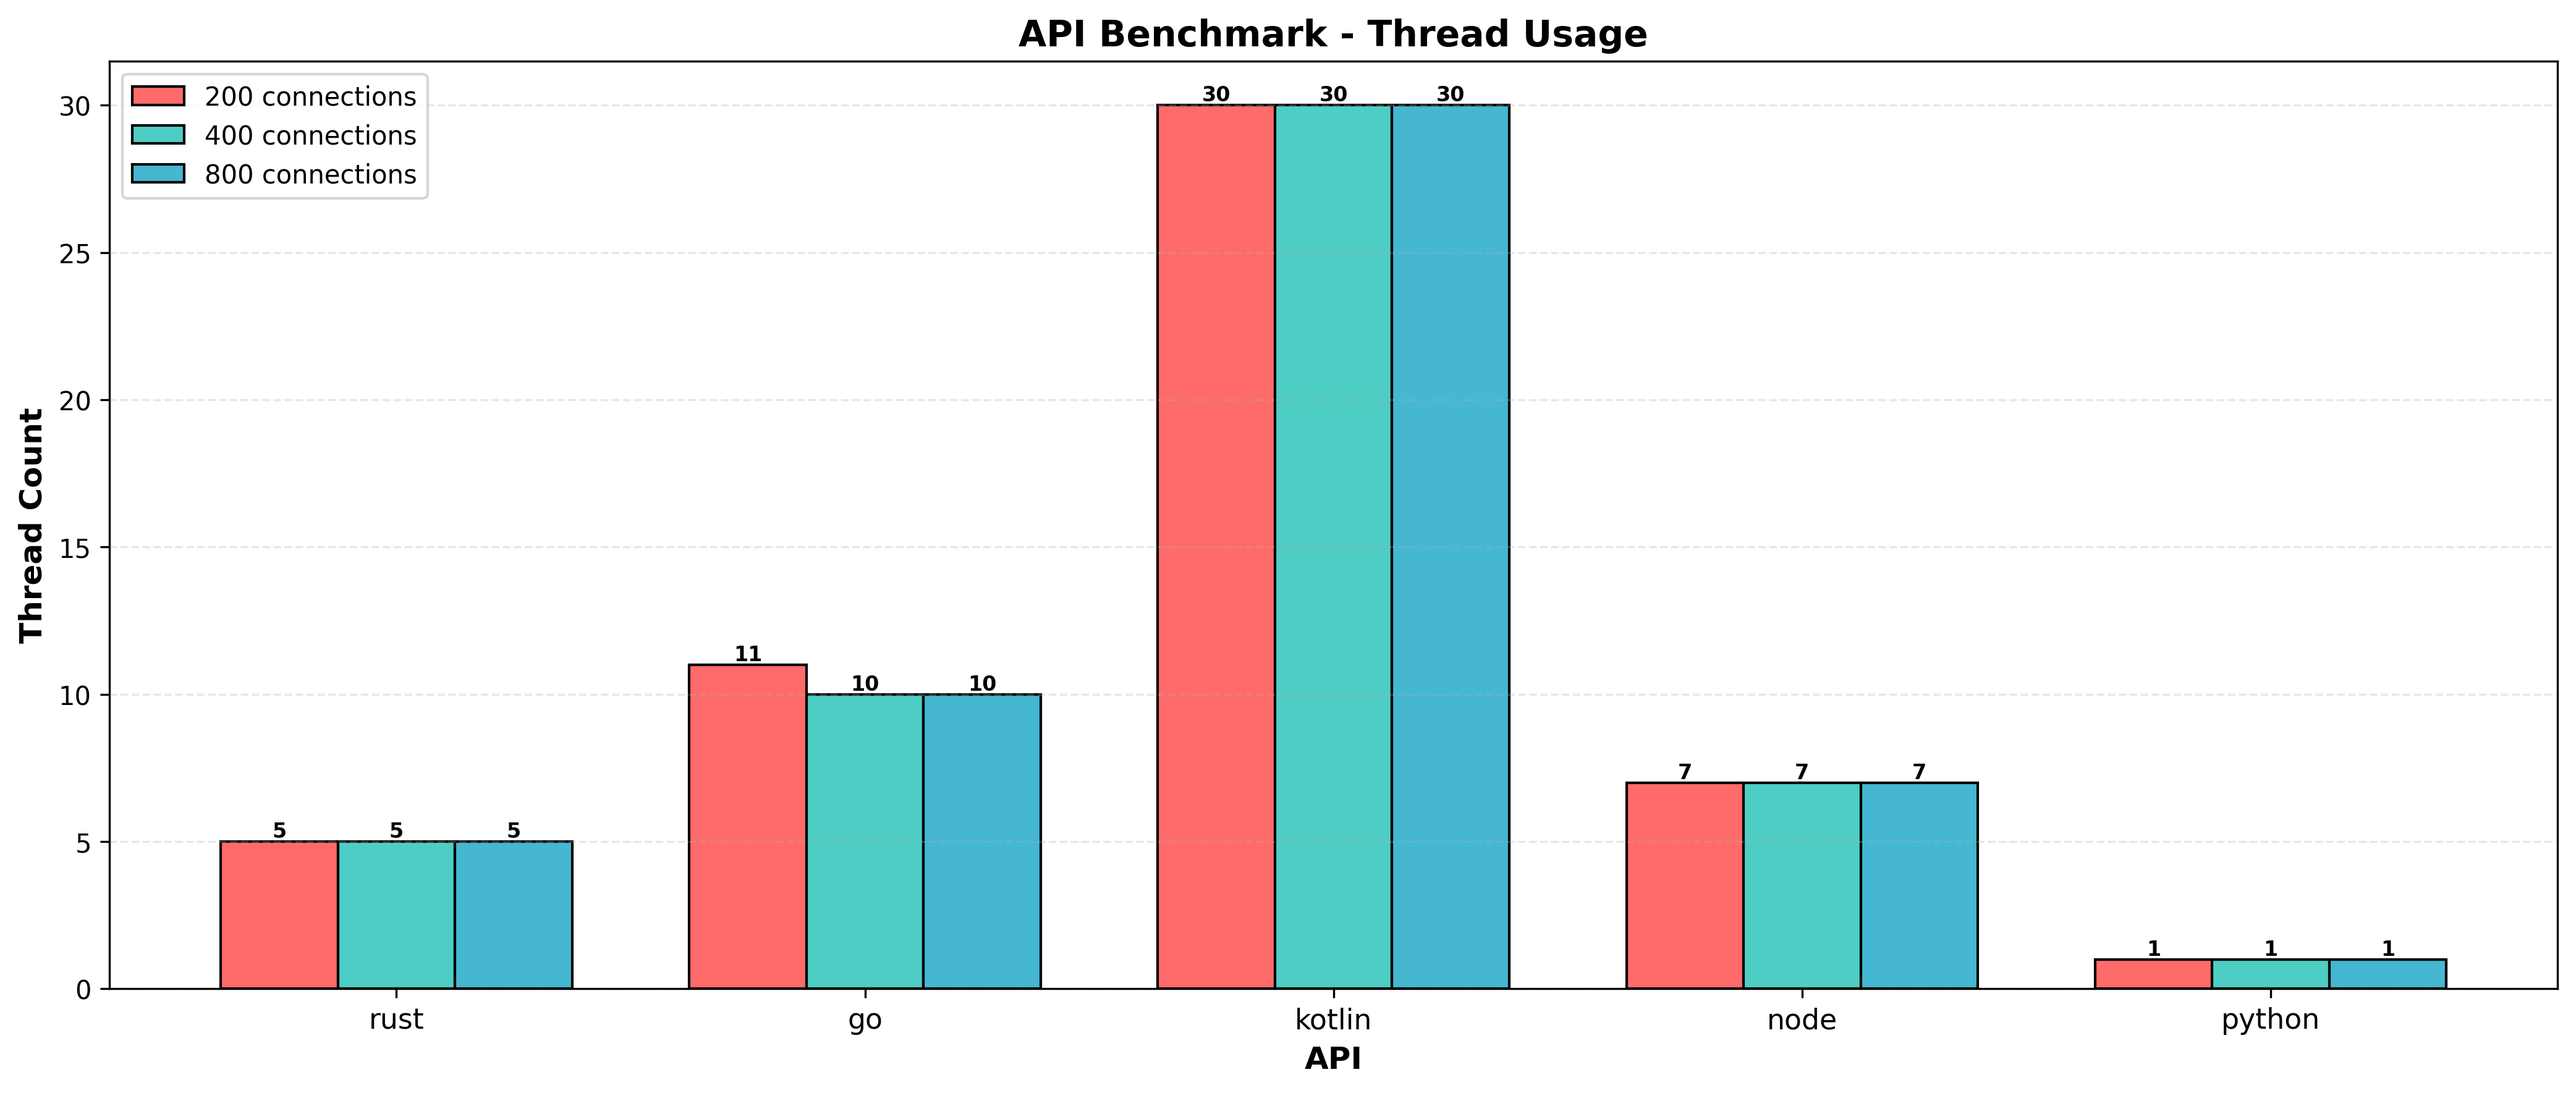
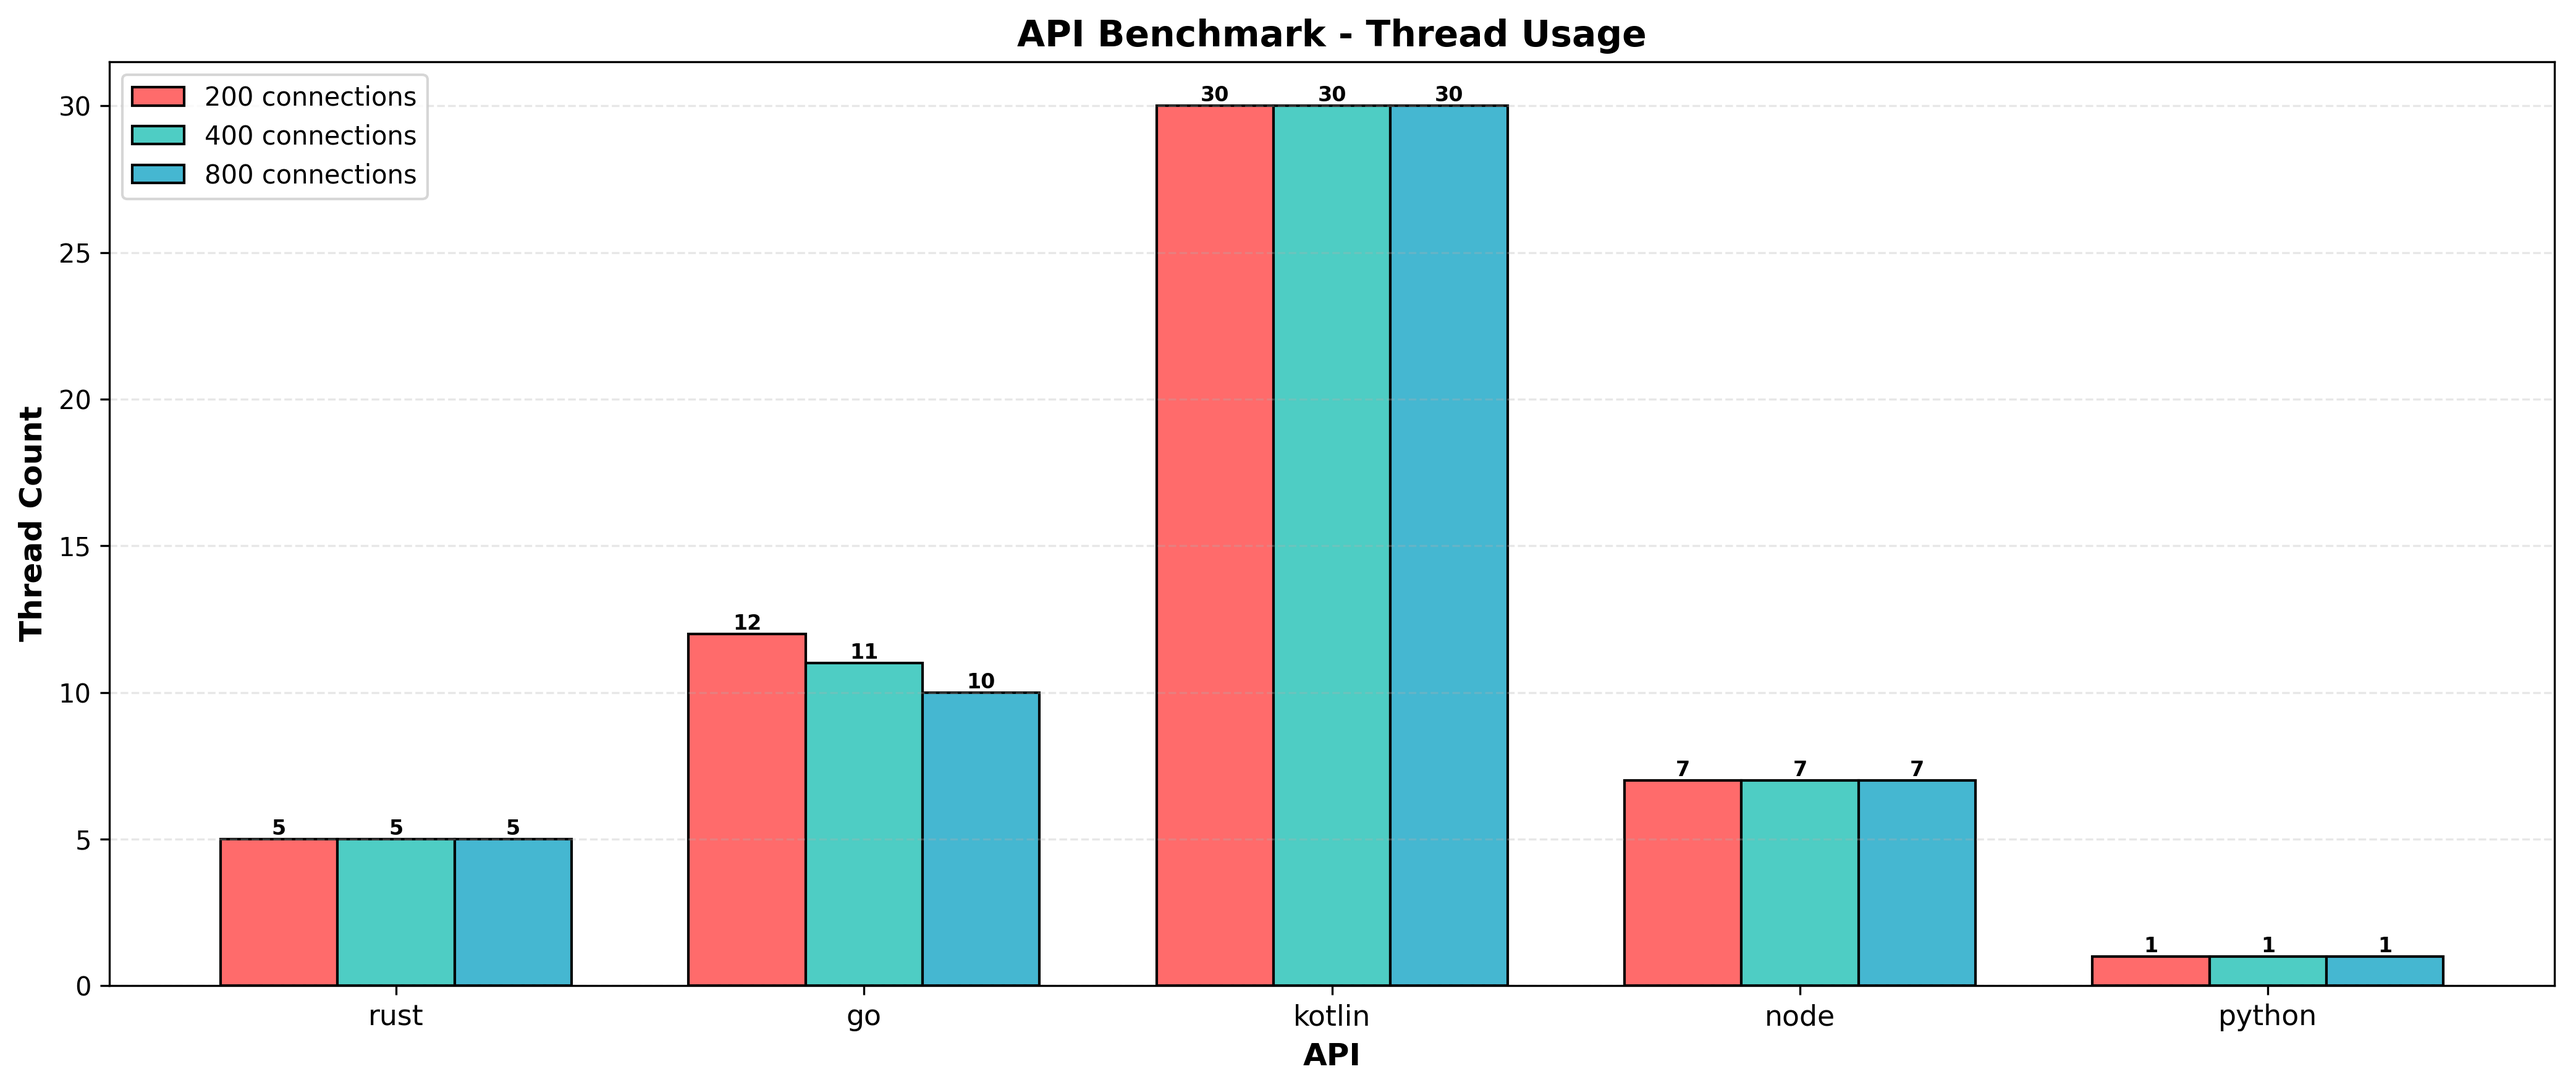
results from github actions autocommit

diff --git a/results/raw.md b/results/raw.md
@@ -1,6 +1,6 @@
 # Results
 ## Timestamp
-Thu Jan 1 12:25:14 UTC 2026
+Thu Jan 1 19:01:17 UTC 2026
 ## Hardware Info
 | CPU Model | Num CPUs | Memory |
 | --------- | -------- | ------ |
@@ -9,18 +9,18 @@ Thu Jan 1 12:25:14 UTC 2026
 ## Benchmarks of 1 Million Requests
 | Test Name | HTTP Conns | Success Rate | Test Seconds | Requests per Second | P50 Millis | P99 Millis | P99.9 Millis | API Memory MB | API CPU Time | API Threads |
 | --------- | ---------- | ------------ | ------------ | ------------------- | ---------- | ---------- | ------------ | ------------- | ------------ | ----------- |
-| rust | 200 | 100.0% | 8.6 | 115527.6 | 1.6152 | 4.3940 | 5.9792 | 8.8 | 00:00:17 | 5 |
-| rust | 400 | 100.0% | 8.8 | 112919.3 | 3.2865 | 7.9681 | 10.6812 | 13.1 | 00:00:17 | 5 |
-| rust | 800 | 100.0% | 8.7 | 115395.5 | 6.8202 | 11.2211 | 16.1509 | 22.1 | 00:00:17 | 5 |
-| go | 200 | 100.0% | 11.9 | 83904.4 | 1.8592 | 7.4283 | 10.1940 | 17.7 | 00:00:28 | 11 |
-| go | 400 | 100.0% | 11.4 | 87520.8 | 3.8651 | 13.4755 | 19.4469 | 24.4 | 00:00:27 | 10 |
-| go | 800 | 100.0% | 11.5 | 86979.0 | 8.2667 | 23.7023 | 38.4208 | 37.8 | 00:00:27 | 10 |
-| kotlin | 200 | 100.0% | 14.7 | 67615.8 | 2.0852 | 12.0310 | 33.6196 | 519.2 | 00:00:40 | 30 |
-| kotlin | 400 | 100.0% | 14.5 | 68941.8 | 4.8807 | 20.4900 | 56.3563 | 531.9 | 00:00:40 | 30 |
-| kotlin | 800 | 100.0% | 14.7 | 67816.4 | 9.5223 | 45.9188 | 121.7477 | 731.2 | 00:00:40 | 30 |
-| node | 200 | 100.0% | 33.2 | 30049.5 | 5.8032 | 10.4403 | 12.1346 | 107.3 | 00:00:33 | 7 |
-| node | 400 | 100.0% | 32.7 | 30551.9 | 11.4203 | 17.8010 | 20.9480 | 139.3 | 00:00:33 | 7 |
-| node | 800 | 100.0% | 36.1 | 27696.8 | 24.4575 | 39.8436 | 47.3570 | 147.9 | 00:00:36 | 7 |
-| python | 200 | 100.0% | 240.6 | 6361.8 | 47.2427 | 54.3296 | 56.2678 | 34.7 | 00:04:00 | 1 |
-| python | 400 | 100.0% | 233.9 | 7067.3 | 92.5413 | 105.3266 | 111.3609 | 37.4 | 00:03:53 | 1 |
-| python | 800 | 100.0% | 232.7 | 7697.3 | 184.5953 | 204.6799 | 217.2632 | 43.0 | 00:03:52 | 1 |
+| rust | 200 | 100.0% | 8.7 | 114327.5 | 1.6107 | 4.5042 | 5.9393 | 8.3 | 00:00:17 | 5 |
+| rust | 400 | 100.0% | 8.4 | 117992.2 | 3.2148 | 6.7687 | 9.5033 | 13.0 | 00:00:16 | 5 |
+| rust | 800 | 100.0% | 8.4 | 118432.3 | 6.7441 | 9.9341 | 14.5312 | 22.2 | 00:00:16 | 5 |
+| go | 200 | 100.0% | 11.6 | 85514.7 | 1.8438 | 7.3703 | 10.4334 | 18.2 | 00:00:27 | 12 |
+| go | 400 | 100.0% | 11.1 | 89634.4 | 3.7735 | 13.1819 | 19.0875 | 24.8 | 00:00:26 | 11 |
+| go | 800 | 100.0% | 11.2 | 89291.2 | 7.9873 | 25.4152 | 38.1056 | 37.2 | 00:00:26 | 10 |
+| kotlin | 200 | 100.0% | 14.5 | 68710.1 | 1.9934 | 11.8690 | 38.5856 | 522.3 | 00:00:40 | 30 |
+| kotlin | 400 | 100.0% | 14.9 | 66696.4 | 5.1092 | 20.3252 | 70.2163 | 536.0 | 00:00:42 | 30 |
+| kotlin | 800 | 100.0% | 14.7 | 67884.4 | 9.8091 | 40.5166 | 98.1282 | 622.2 | 00:00:41 | 30 |
+| node | 200 | 100.0% | 34.0 | 29330.7 | 5.8466 | 10.3663 | 11.2641 | 104.5 | 00:00:34 | 7 |
+| node | 400 | 100.0% | 33.7 | 29604.4 | 11.7283 | 18.5549 | 22.0352 | 139.9 | 00:00:34 | 7 |
+| node | 800 | 100.0% | 34.5 | 28971.8 | 23.5023 | 37.6957 | 43.3468 | 149.1 | 00:00:34 | 7 |
+| python | 200 | 100.0% | 236.0 | 6458.1 | 46.4126 | 53.9325 | 54.5533 | 34.6 | 00:03:56 | 1 |
+| python | 400 | 100.0% | 232.5 | 7295.0 | 91.8607 | 105.1033 | 108.4035 | 37.3 | 00:03:52 | 1 |
+| python | 800 | 100.0% | 230.2 | 7041.3 | 182.4266 | 203.0541 | 211.8493 | 43.1 | 00:03:50 | 1 |

diff --git a/results/latest.md b/results/latest.md
@@ -1,6 +1,6 @@
 # Latest Results
 
-Timestamp: `Thu Jan 1 12:25:14 UTC 2026`
+Timestamp: `Thu Jan 1 19:01:17 UTC 2026`
 
 ## Requests Per Second
 ![Requests Per Second](rps.png)
